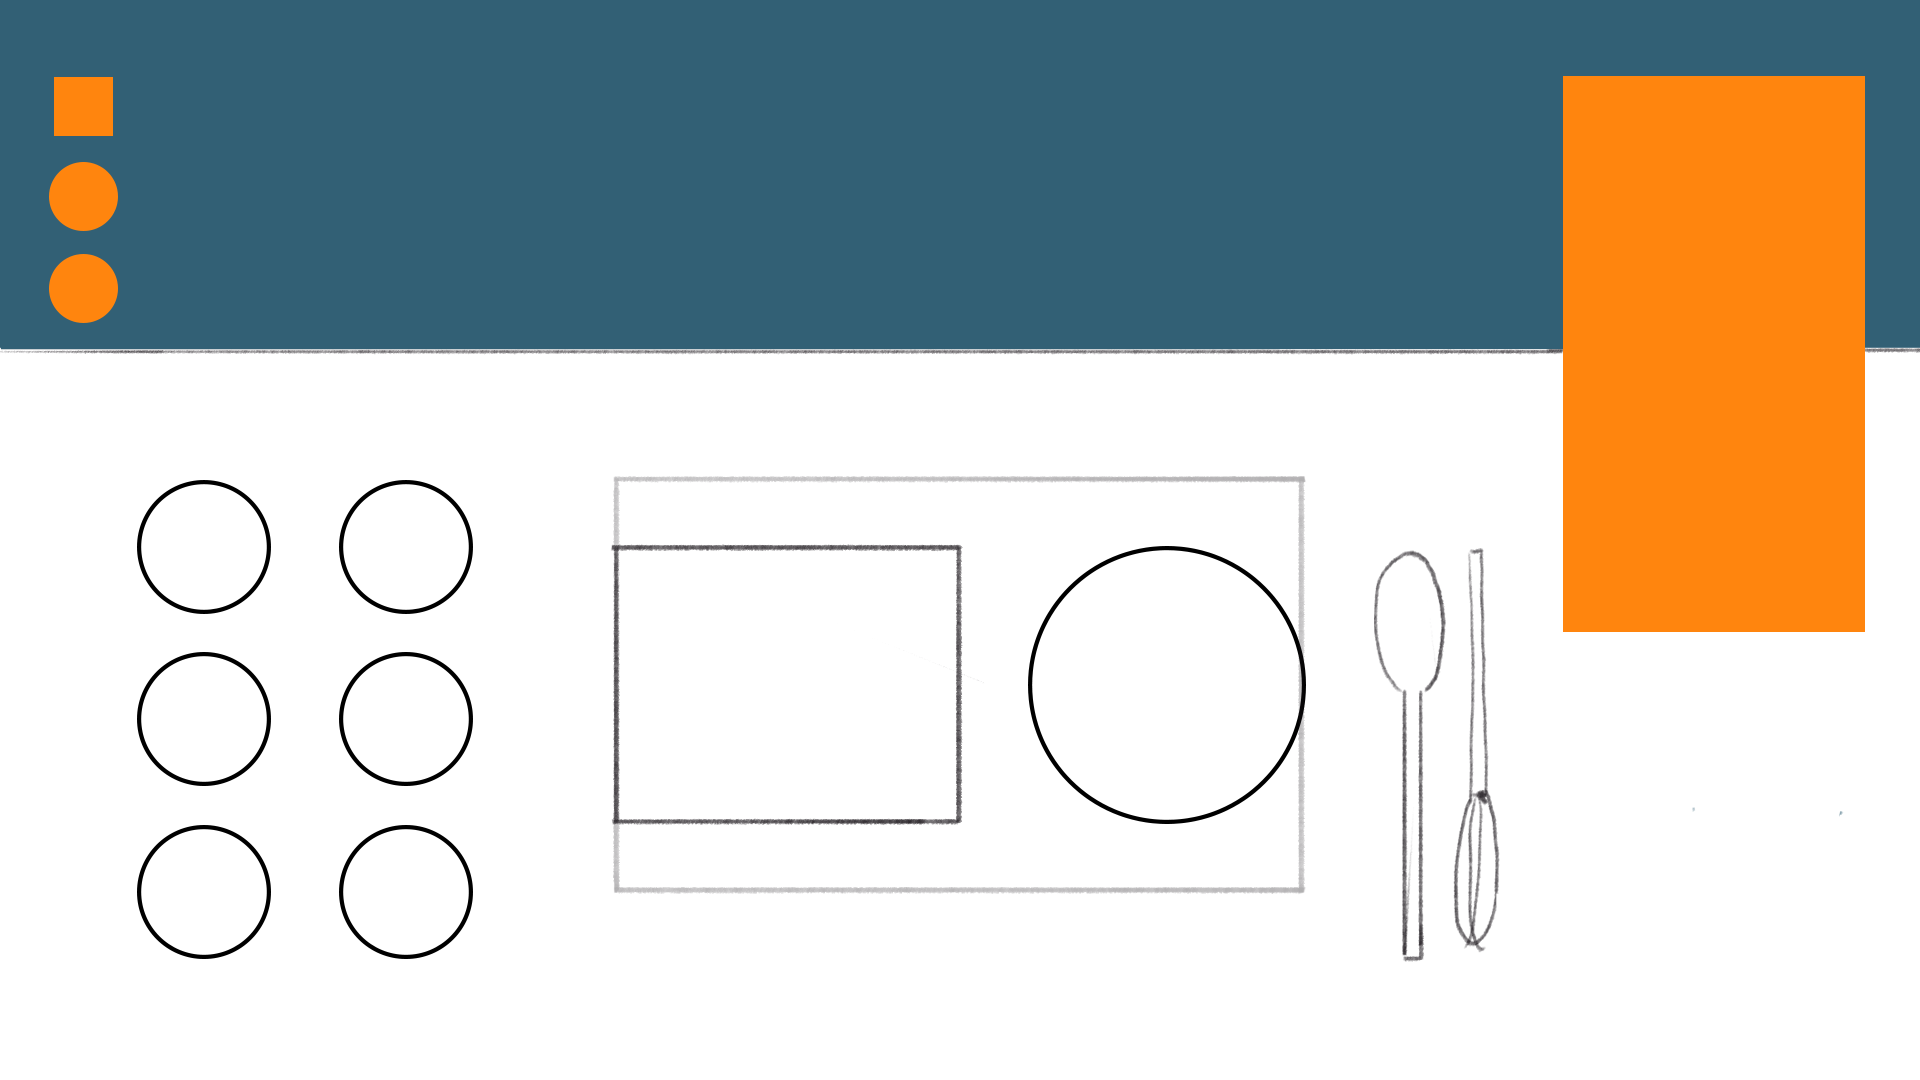
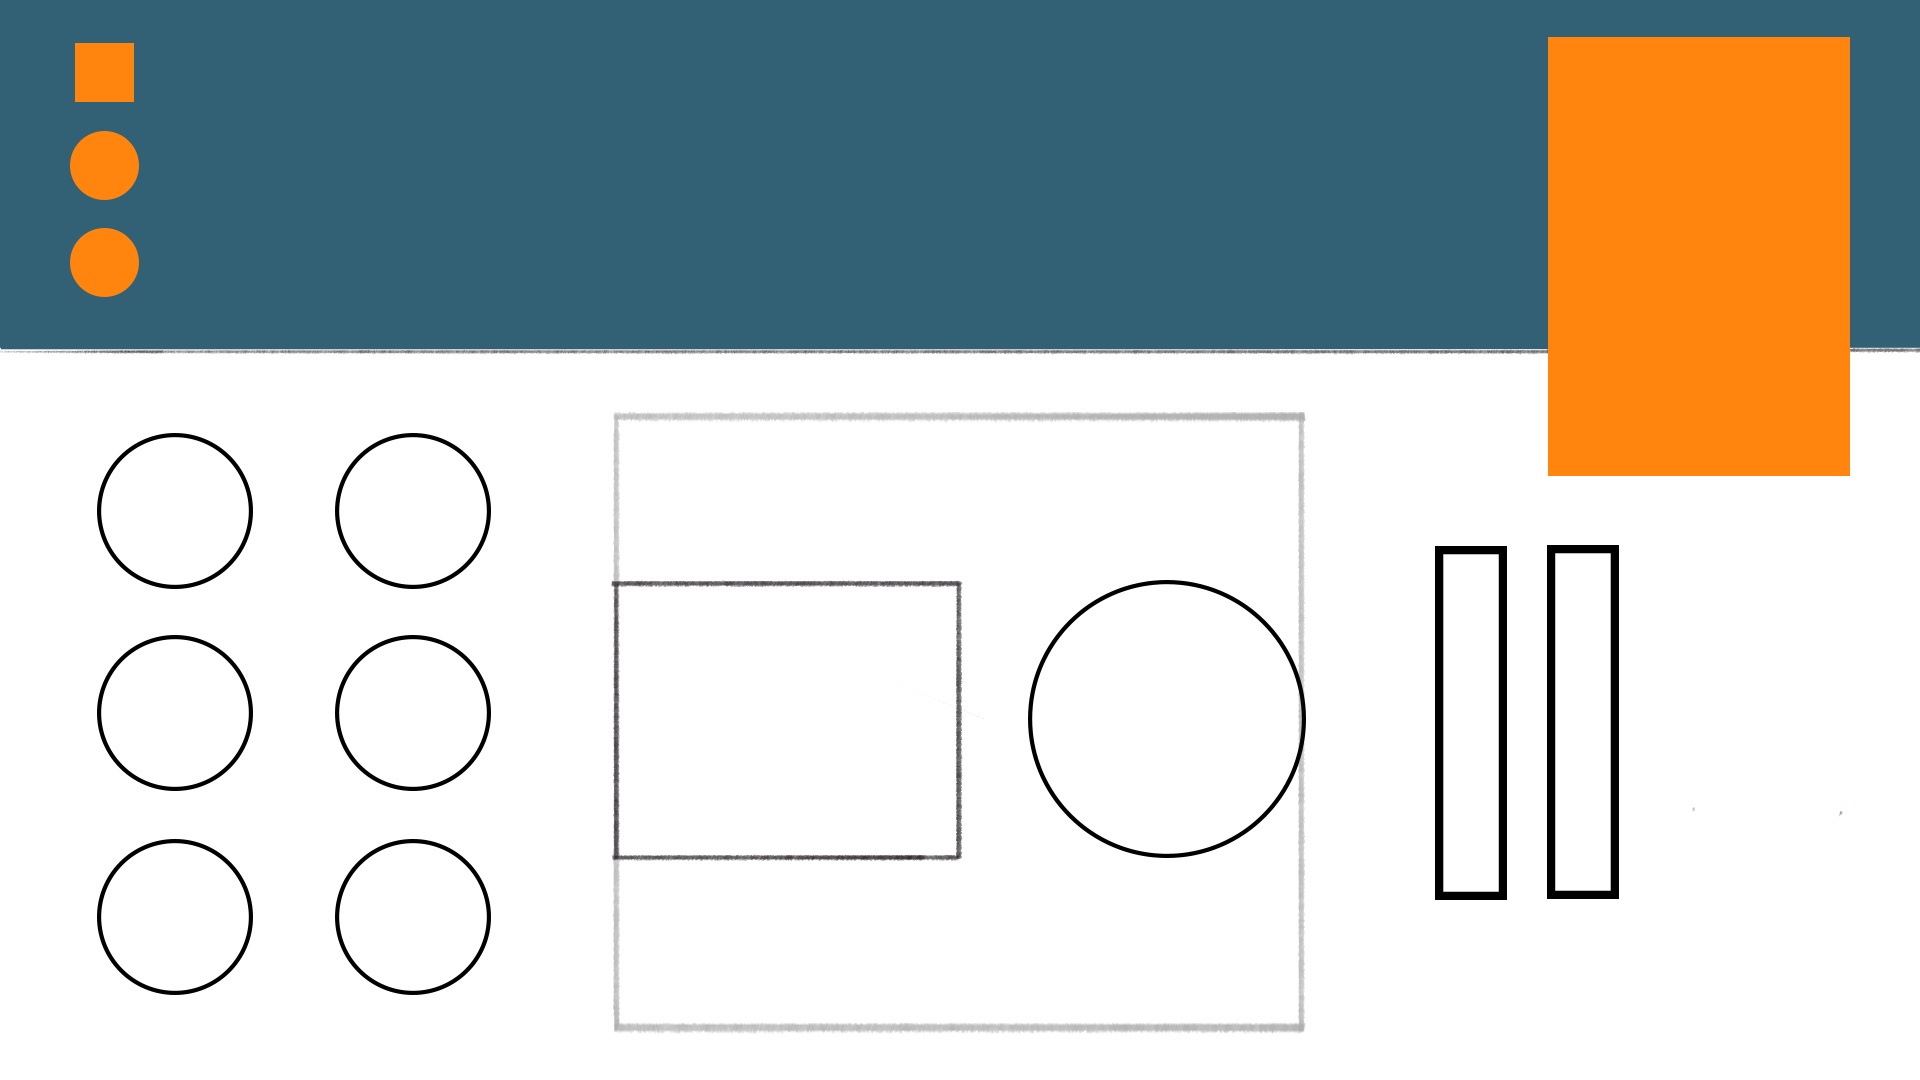
Added all the new ingredients.

diff --git a/source/views/Mount.view.less b/source/views/Mount.view.less
@@ -67,10 +67,10 @@
     }
 
     .CookbookSpace {
-        top: 1.87em;
-        left: 39.13em;
-        width: 46.47em - 39.13em;;
-        height: 15.67em - 1.87em;
+        left: 38.51em; top: 0.73em;
+        width: 45.13em - 37.77em;
+        height: 10.75em - 0.03em;
+
         padding: 0.33em;
         position: absolute;
         text-align: right;
@@ -112,7 +112,7 @@
             background-color: black;
 
             &[position=Default] {
-                left: 28.00em; top: 16.00em;
+                left: 28.26em; top: 16.82em;
             }
         }
 
@@ -136,7 +136,7 @@
             background-color: #784c2c;
 
             &[position=Default] {
-                left: 14.38em; top: 12.87em;
+                left: 14.39em; top: 13.75em;
             }
         }
 
@@ -151,11 +151,11 @@
             background-color: gray;
 
             &[position=Default] {
-                left: 28.00em; top: 16.00em;
+                left: 28.26em; top: 16.82em;
             }
         }
 
-        #Onions {
+        #Onion {
             width: 4em;
             height: 1em;
             color: white;
@@ -165,19 +165,16 @@
 
             &[cuts="0"] {
                 &:after {
-                    content: "Onions";
+                    content: "Onion";
                 }
             }
             &[cuts="1"] {
                 &:after {
-                    content: "Oni ons";
+                    content: "On ion";
                 }
             }
             &[cuts="2"]:after {
-                content: "O ni ons";
-            }
-            &[cuts="3"]:after {
-                content: "O ni on s";
+                content: "On i on";
             }
 
             &[position=Default] {
@@ -190,32 +187,27 @@
             }
         }
 
-        #Carrots {
+        #GreenPepper {
             width: 4em;
             height: 1em;
-            color: white;
+            color: green;
             background-color: black;
             margin-left: 4em / -2;
             margin-top: 1em / -2;
 
             &[cuts="0"] {
                 &:after {
-                    content: "Carrots";
+                    content: "Pepper";
                 }
             }
             &[cuts="1"] {
                 &:after {
-                    content: "Ca rrots";
+                    content: "Pe pper";
                 }
             }
             &[cuts="2"] {
                 &:after {
-                    content: "Ca rr ots";
-                }
-            }
-            &[cuts="3"] {
-                &:after {
-                    content: "Ca rr ot s";
+                    content: "Pe pp er";
                 }
             }
 
@@ -226,20 +218,30 @@
             &[position=CuttingBoard] {
                 left: 18.69em; top: 16.16em;
             }
-
-            color: orange;
         }
 
-        #Garlic {
+        #Tomato {
             width: 4em;
             height: 1em;
-            color: white;
+            color: red;
             background-color: black;
             margin-left: 4em / -2;
             margin-top: 1em / -2;
 
-            &::after {
-                content: "Garlic";
+            &[cuts="0"] {
+                &:after {
+                    content: "Tomato";
+                }
+            }
+            &[cuts="1"] {
+                &:after {
+                    content: "To mato";
+                }
+            }
+            &[cuts="2"] {
+                &:after {
+                    content: "To ma to";
+                }
             }
 
             &[position=Default] {
@@ -251,7 +253,7 @@
             }
         }
 
-        #Beef {
+        #Egg {
             width: 4em;
             height: 1em;
             color: white;
@@ -259,9 +261,9 @@
             margin-left: 4em / -2;
             margin-top: 1em / -2;
 
-            color: brown;
+            color: yellow;
             &::after {
-                content: "Beef";
+                content: "Egg";
             }
 
             &[position=Default] {

diff --git a/source/views/Mount.view.js b/source/views/Mount.view.js
@@ -58,26 +58,22 @@ class GameScreen {
             <div class="GameScreen" onClick={this.onClick} onContextMenu={this.onContextMenu}
                 hasSelectedItem={game.selectedItem != undefined}>
                 <div class="CookbookSpace">
-                    <p>Level 2 - شوربة عدس</p>
-                    <p>Add water to pot.</p>
-                    <p>Put pot on stove. Boil.</p>
-                    <p>Cut onions, carrots and garlic. Put in pot.</p>
-                    <p>Stir.</p>
-                    <p>Cut beef into tiny(?) cubes. Put in the pot.</p>
-                    <p>Stir.</p>
-                    <p>Add salt, to taste.</p>
-                    <p>Eat!!</p>
+                    <p>Level 1 - شوربة عدس</p>
+                    <p>Cut the tomatoes, green peppers, and onion.</p>
+                    <p>Put oil in the pan.</p>
+                    <p>Put the tomato, green peppers, and onion in the pan. Stir.</p>
+                    <p>Crack an egg in the pan.</p>
+                    <p>Add salt and pepper.</p>
                 </div>
                 <div class="CookingSpace">
                     <Item item="CuttingBoard" isSelectable={false}/>
-                    <Item item="Sink" isSelectable={false}/>
                     <Item item="Stove" isSelectable={false}/>
-                    <Item item="Pot"/>
+                    <Item item="Pot" isSelectable={false}/>
                     <Item item="Salt"/>
-                    <Item item="Beef"/>
-                    <Item item="Onions"/>
-                    <Item item="Carrots"/>
-                    <Item item="Garlic"/>
+                    <Item item="Egg"/>
+                    <Item item="Onion"/>
+                    <Item item="GreenPepper"/>
+                    <Item item="Tomato"/>
                     <Item item="Knife"/>
                     <SelectedItem/>
                 </div>
@@ -193,15 +189,15 @@ const game = {
     // "screen": "TitleScreen",
     "selectedItem": undefined,
     "items": {
-        "Onions": {"canBeCut": true, "maxcuts": 3},
-        "Carrots": {"canBeCut": true, "maxcuts": 3},
-        "Garlic": {"canBeCut": true, "maxcuts": 3},
-        "Beef": {"canBeCut": true, "maxcuts": 5},
+        "Onion": {"canBeCut": true, "maxcuts": 2},
+        "GreenPepper": {"canBeCut": true, "maxcuts": 2},
+        "Tomato": {"canBeCut": true, "maxcuts": 2},
+        "Egg": {},
         "Salt": {},
         "Stove": {},
         "Sink": {},
         "Pot": {},
-        "CuttingBoard": {},
         "Knife": {},
+        "CuttingBoard": {},
     }
 }
